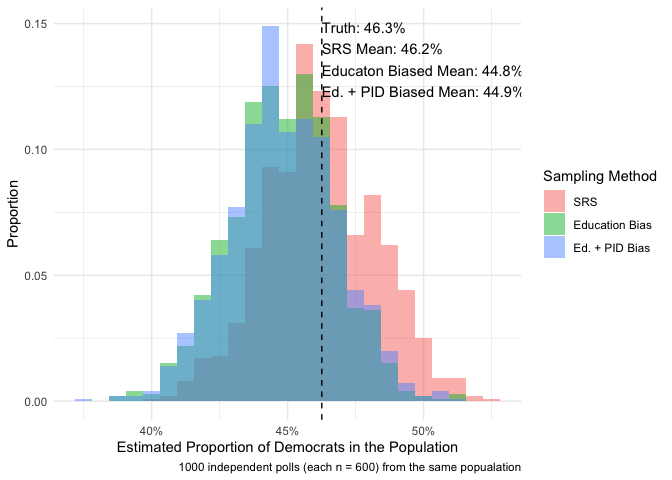
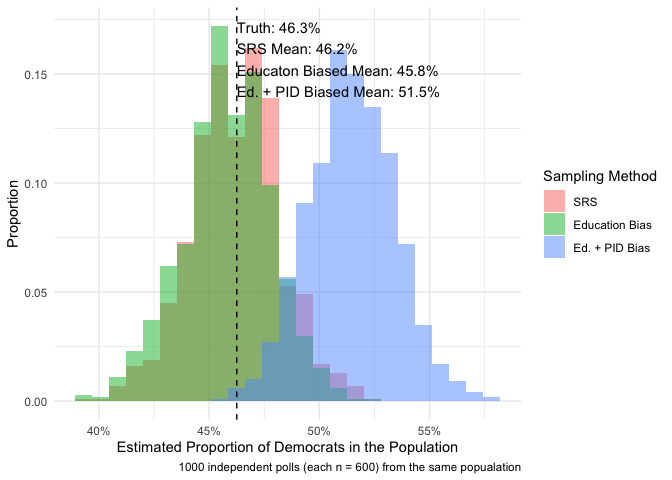
uupdate readme

diff --git a/README.md b/README.md
@@ -31,7 +31,7 @@ pop_wtd <- pop_cces %>%
   tidyr::uncount(weights = weight_rounded)
 
 pop_wtd
-#> # A tibble: 611,434 x 13
+#> # A tibble: 611,434 x 15
 #>     year case_id weight weight_cumulati… state cd     gender    educ    race
 #>    <dbl> <chr>    <dbl>            <dbl> <chr> <chr> <dbl+l> <dbl+l> <int+l>
 #>  1  2007 605      0.379             1.24 New … NY-15 1 [Mal… 4 [Pos… 1 [Whi…
@@ -44,8 +44,8 @@ pop_wtd
 #>  8  2007 627      0.379             1.24 Cali… CA-52 2 [Fem… 4 [Pos… 1 [Whi…
 #>  9  2007 674      0.379             1.24 Texas TX-14 2 [Fem… 2 [Som… 1 [Whi…
 #> 10  2007 674      0.379             1.24 Texas TX-14 2 [Fem… 2 [Som… 1 [Whi…
-#> # … with 611,424 more rows, and 4 more variables: age <dbl>, age_bin <int+lbl>,
-#> #   newsint <dbl+lbl>, pid3_leaner <dbl+lbl>
+#> # … with 611,424 more rows, and 6 more variables: age <dbl>, age_bin <int+lbl>,
+#> #   newsint <dbl+lbl>, pid3_leaner <dbl+lbl>, Y <dbl>, Z <int>
 ```
 
 Declare it formally as a population using the `DeclareDesign` package.
@@ -58,29 +58,32 @@ Pick a propensity score. For example to oversample highly educated, the
 true propensity score we chose is:
 
 ``` r
-pscore_highed <- p_highed(pop_wtd)
-pscore_eddem <- p_eddem(pop_wtd)
+pop_psc <- pop_wtd %>% 
+  mutate(
+    psc_highed = p_highed(.data),
+    psc_eddem  = p_eddem(.data),
+  )
 ```
 
 <img src="man/figures/README-pscore-histogram-1.png" width="90%" />
 
-Take Samples, e.g. a 0.1 percent sample with no replacement
+Take samples, e.g. a 0.1 percent sample with no replacement
 
 ``` r
 stat_dem(pop_wtd) # true value
 #> [1] 0.4625601
 
-samp0  <- samp_with(pop_wtd, sample_srs, n = 600)
+samp0  <- samp_with(pop_psc, samp_srs, n = 600)
 stat_dem(samp0)
-#> [1] 0.4783333
-
-samp1  <- samp_with(pop_wtd, sample_highed, n = 600)
-stat_dem(samp1)
 #> [1] 0.465
 
-samp2  <- samp_with(pop_wtd, sample_eddem, n = 600)
+samp1  <- samp_with(pop_psc, samp_pscore, varname = psc_highed, n = 600)
+stat_dem(samp1)
+#> [1] 0.4466667
+
+samp2  <- samp_with(pop_psc, samp_pscore, varname = psc_eddem, n = 600)
 stat_dem(samp2)
-#> [1] 0.4333333
+#> [1] 0.5216667
 ```
 
 Take Multiple Samples. This will take several minutes depending on how
@@ -88,47 +91,16 @@ many independent samples we draw.
 
 ``` r
 pop_mu <- stat_dem(pop_wtd)
-n_surveys <- 500
+n_surveys <- 1000
 n_samp <- 600
-samps0 <- map_dbl(1:n_surveys, ~ stat_dem(samp_with(pop_wtd, sample_srs, n_samp)))
-samps1 <- map_dbl(1:n_surveys, ~ stat_dem(samp_with(pop_wtd, sample_highed, n_samp)))
-samps2 <- map_dbl(1:n_surveys, ~ stat_dem(samp_with(pop_wtd, sample_eddem, n_samp)))
+samps0 <- map_dbl(1:n_surveys, function(x) stat_dem(samp_with(pop_psc, samp_srs, n_samp)))
+samps1 <- map_dbl(1:n_surveys, 
+                  function(x) stat_dem(samp_with(pop_psc, samp_pscore, varname = psc_highed, n = n_samp)))
+samps2 <- map_dbl(1:n_surveys, 
+                  function(x) stat_dem(samp_with(pop_psc, samp_pscore, varname = psc_eddem, n = n_samp)))
 ```
 
 Plot the Sampling Distributions
-
-``` r
-library(scales)
-library(glue)
-
-sampling_df <- bind_rows(
-  tibble(method = "SRS", muhat = samps0),
-  tibble(method = "Education Bias", muhat = samps1),
-  tibble(method = "Ed. + PID Bias", muhat = samps2),
-) %>% 
-  mutate(method = fct_inorder(method))
-
-txt <- glue("Truth: {percent(pop_mu, accuracy = 0.1)}\n",
-             "SRS Mean: {percent(mean(samps0), accuracy = 0.1)}\n",
-             "Educaton Biased Mean: {percent(mean(samps1), accuracy = 0.1)}\n",
-            "Ed. + PID Biased Mean: {percent(mean(samps2), accuracy = 0.1)}")
-
-sampling_df %>%
-  ggplot(aes(x = muhat, fill = method)) +
-  geom_histogram(alpha = 0.5, 
-                 aes(y = stat(width*density)), 
-                 position = position_identity(),
-                 bins = 25) +
-  geom_vline(xintercept = pop_mu, linetype = "dashed") +
-  annotate("text", x = pop_mu, y = Inf, label = txt, 
-           hjust = 0, vjust = 1.2) +
-  theme_minimal() +
-  scale_x_continuous(labels = percent_format(accuracy = 1)) +
-  labs(x = "Estimated Proportion of Democrats in the Population",
-       fill = "Sampling Method",
-       y = "Proportion",
-       caption = glue("{n_surveys} independent polls (each n = {n_samp}) from the same popualation"))
-```
 
 <img src="man/figures/README-sampling-dist-1.png" width="90%" />
 
